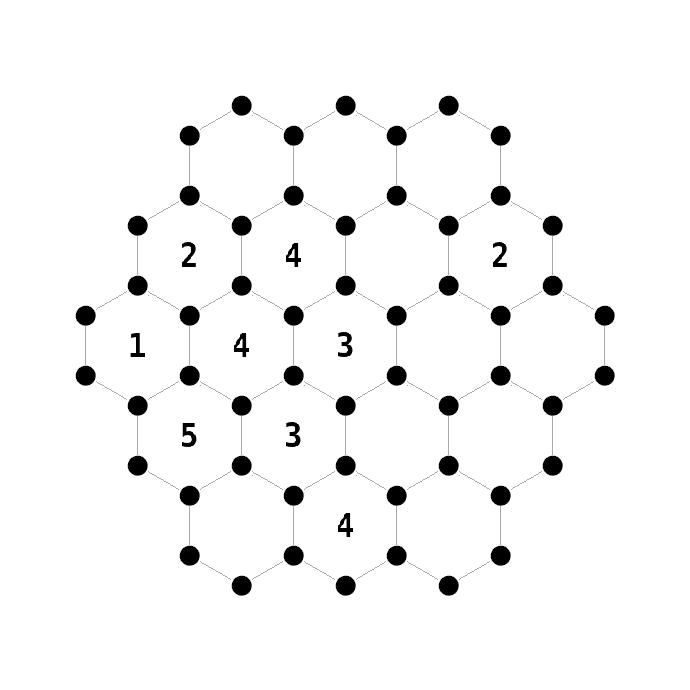
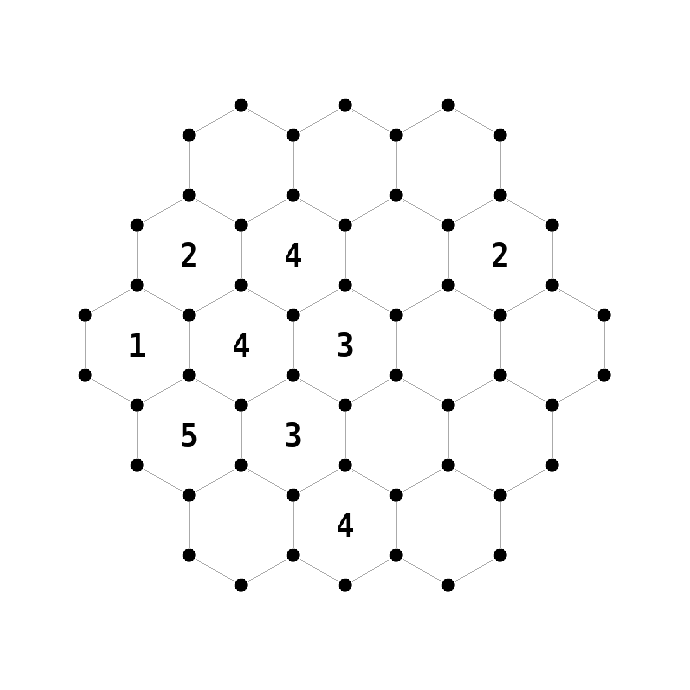
Generate a few boards

diff --git a/examples.go b/examples.go
@@ -11,6 +11,37 @@ type Config struct {
 
 func loadExamples() map[string]*Config {
 	return map[string]*Config{
+		"SqSmEz1": &Config{
+			shape:    square,
+			baseSide: 70,
+			width:    690,
+			height:   690,
+			proto: []string{
+				"32222_3",
+				"3__11_2",
+				"_____11",
+				"_____21",
+				"101312_",
+				"_3_21_2",
+				"___322_",
+			},
+		},
+
+		"SqMdEz1": &Config{
+			shape:    square,
+			baseSide: 60,
+			width:    100 + 14*60,
+			height:   100 + 60*6,
+			proto: []string{
+				"_1232_2_322_3_",
+				"3___2_2__2_12_",
+				"212_2122___32_",
+				"12___3_121___3",
+				"__21_1_32___22",
+				"2__2____22___3",
+			},
+		},
+
 		"SqSmHa1": &Config{
 			shape:    square,
 			baseSide: 70,
@@ -41,6 +72,20 @@ func loadExamples() map[string]*Config {
 				"_21_32_",
 			},
 		},
+		"SqSmMd1": &Config{
+			shape:    square,
+			baseSide: 70,
+			width:    600,
+			height:   600,
+			proto: []string{
+				"____0_",
+				"33__1_",
+				"__12__",
+				"__20__",
+				"_1__11",
+				"_2____",
+			},
+		},
 		"HxSmHa1": &Config{
 			shape:    hex,
 			baseSide: 60,
@@ -52,6 +97,66 @@ func loadExamples() map[string]*Config {
 				"143__",
 				"53__",
 				"_4_",
+			},
+		},
+		"HxSmEz1": &Config{
+			shape:    hex,
+			baseSide: 60,
+			width:    690,
+			height:   690,
+			proto: []string{
+				"_32",
+				"__02",
+				"__3_4",
+				"__4_",
+				"___",
+			},
+		},
+		"HxSmNm1": &Config{
+			shape:    hex,
+			baseSide: 60,
+			width:    690,
+			height:   690,
+			proto: []string{
+				"__4",
+				"__3_",
+				"__03_",
+				"_3__",
+				"__2",
+			},
+		},
+		"HxMdEz1": &Config{
+			shape:    hex,
+			baseSide: 60,
+			width:    1000,
+			height:   950,
+			proto: []string{
+				"___4_",
+				"_44_5_",
+				"3544_33",
+				"_3_33332",
+				"_43542__0",
+				"__434__2",
+				"34__43_",
+				"__33_2",
+				"_____",
+			},
+		},
+		"HxMdNm1": &Config{
+			shape:    hex,
+			baseSide: 60,
+			width:    1000,
+			height:   950,
+			proto: []string{
+				"520_0",
+				"____2_",
+				"_4354__",
+				"___3433_",
+				"_4_4__3__",
+				"_3__5__4",
+				"_44_45_",
+				"4_45_5",
+				"5____",
 			},
 		},
 	}

diff --git a/dot.go b/dot.go
@@ -21,7 +21,7 @@ func (d *Dot) onDraw(renderer *sdl.Renderer) {
 	renderer.Copy(
 		d.tex,
 		&sdl.Rect{X: 0, Y: 0, W: texWidth, H: texHeight},
-		&sdl.Rect{X: int32(d.pos.x - texWidth/2), Y: int32(d.pos.y - texHeight/2), W: texWidth, H: texHeight})
+		&sdl.Rect{X: int32(d.pos.x - texWidth/3), Y: int32(d.pos.y - texHeight/3), W: texWidth * 2 / 3, H: texHeight * 2 / 3})
 }
 
 func initDot(renderer *sdl.Renderer, position *Position) (*Dot, error) {
